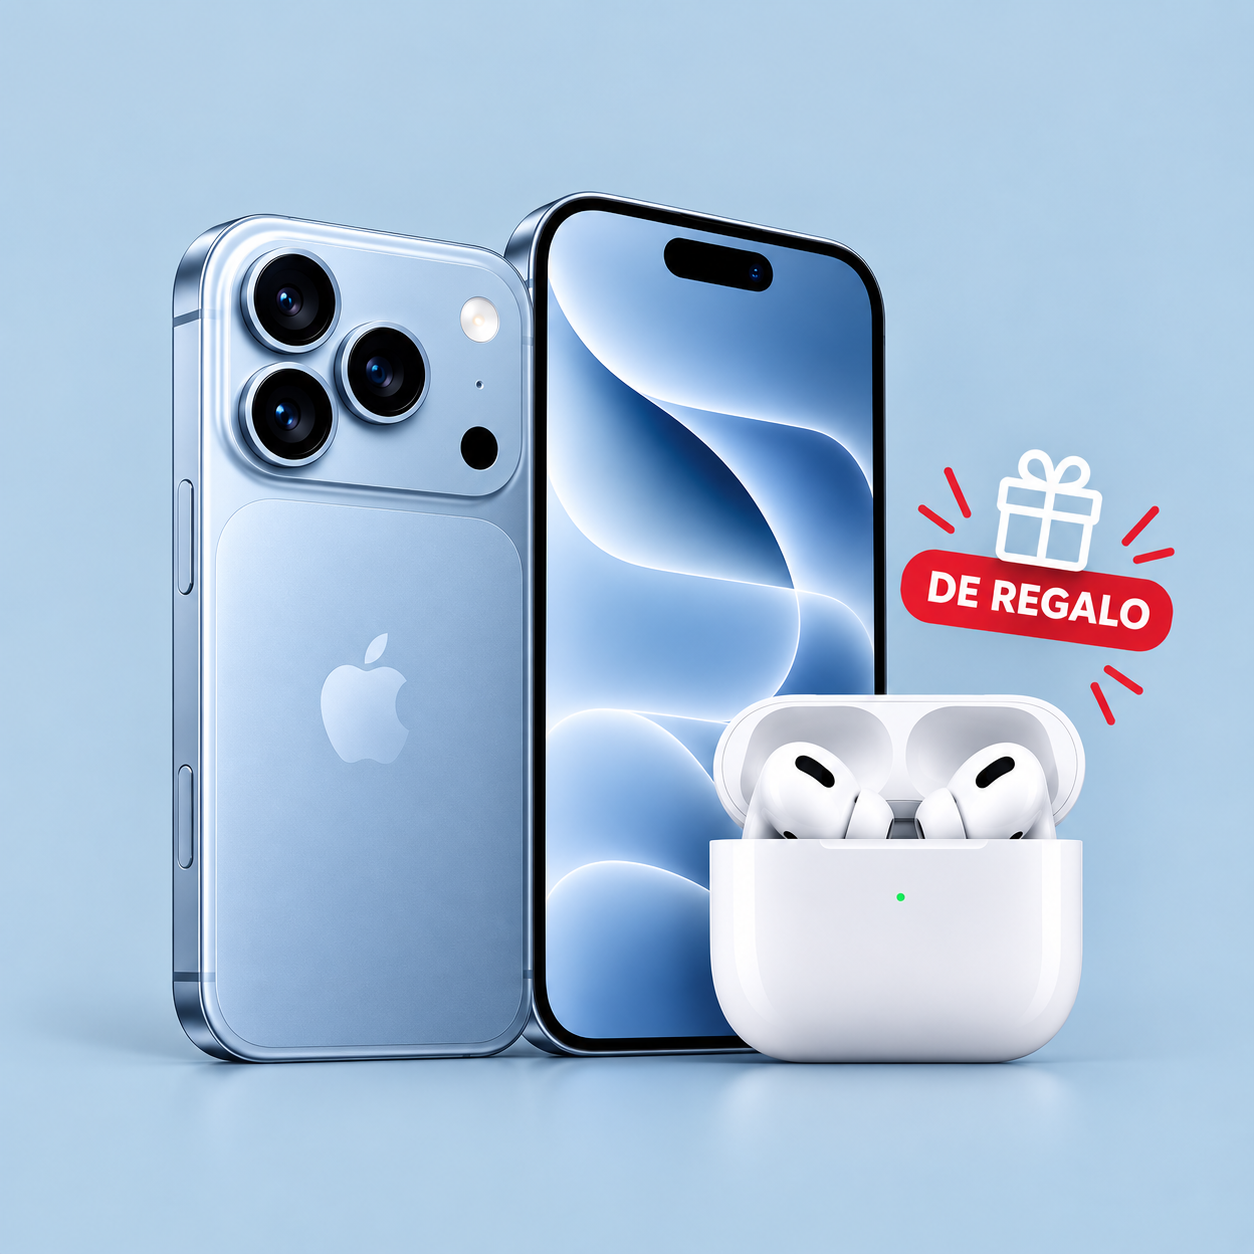
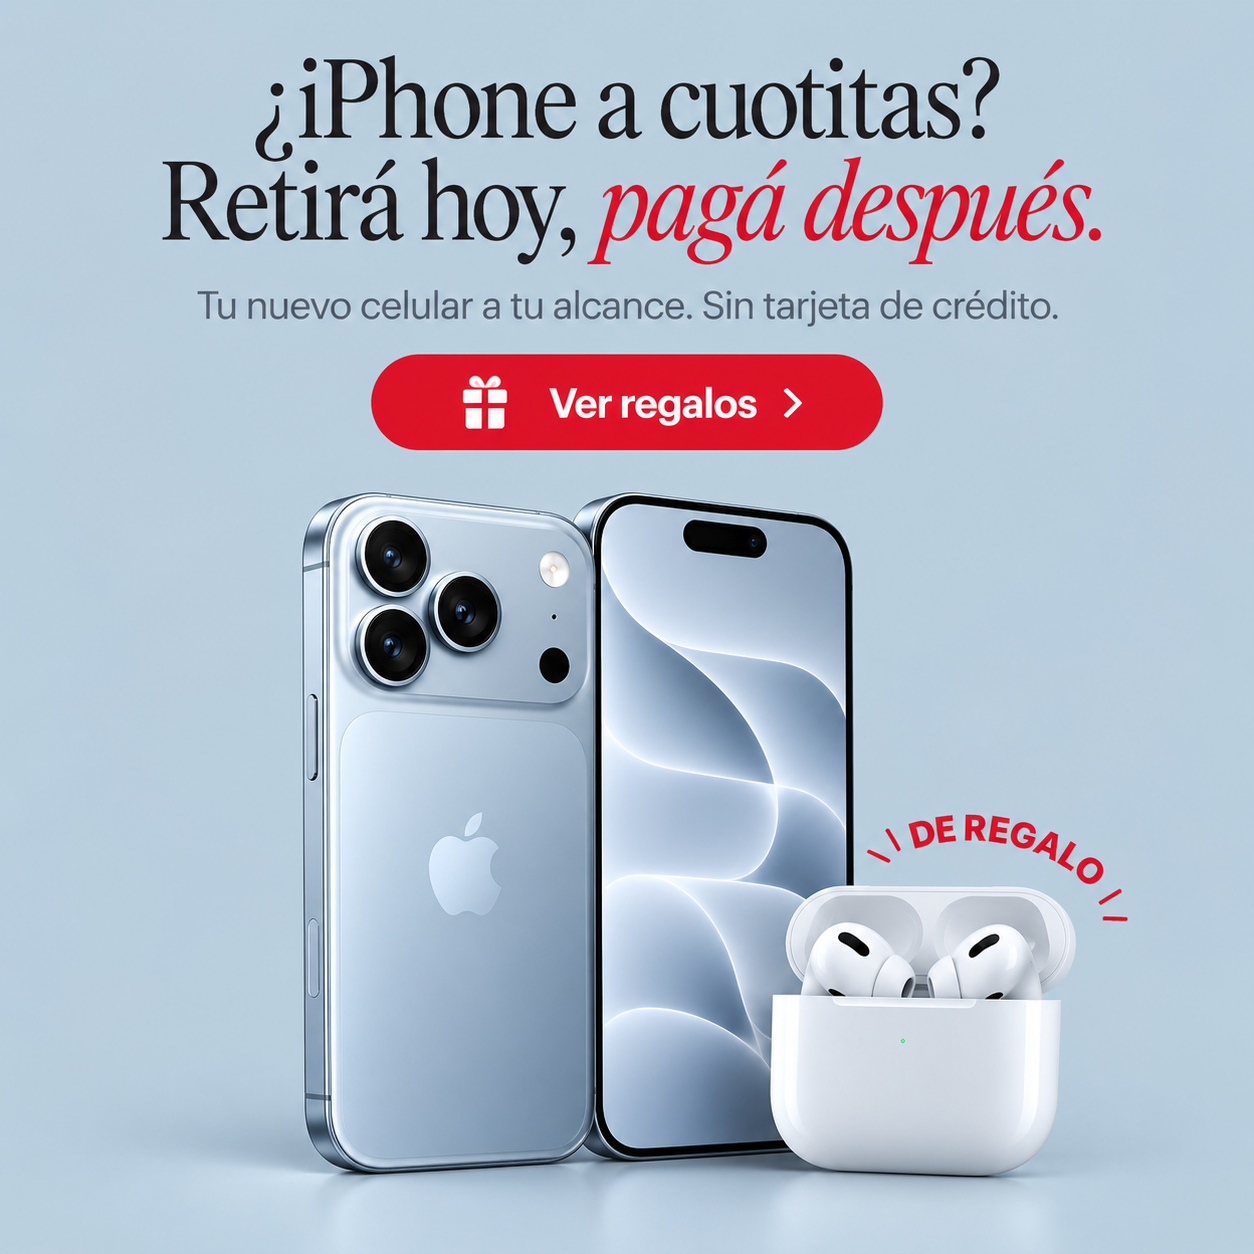
Actualizo foto hero, tipografias unificadas, iconos y carrusel

diff --git a/index.html b/index.html
@@ -187,69 +187,33 @@
     font-style:italic;
   }
 
-  /* ===== 4. HERO SLIDE (cuadrado 1:1) ===== */
-  .slide{
+  /* ===== 4. HERO CARRUSEL (4 fotos cuadradas 1080x1080, swipe automatico) ===== */
+  .hero-carrusel{
+    width:100%;
+    overflow:hidden;
+    position:relative;
+    background:var(--blanco);
+  }
+  .hero-track{
+    display:flex;
+    transition:transform .5s ease;
+  }
+  .hero-slide{
+    flex:0 0 100%;
+    display:block;
     width:100%;
     aspect-ratio:1/1;
-    background:#BFCFDB;
-    display:flex;
-    flex-direction:column;
-    align-items:center;
-    justify-content:flex-start;
-    text-align:center;
-    padding:5% 7% 0;
-    overflow:hidden;
   }
-
-  .slide-titular{
-    font-family:'Instrument Serif', serif;
-    font-weight:400;
-    font-size:1.85rem;
-    line-height:2rem;
-    color:var(--negro);
-    margin-bottom:8px;
-  }
-  .slide-titular em{ font-style:italic; color:var(--rojo); }
-
-  .slide-sub{
-    font-family:'Outfit', sans-serif;
-    font-weight:500;
-    font-size:0.9rem;
-    line-height:1.2rem;
-    color:var(--gris-texto);
-    margin-bottom:14px;
-  }
-
-  .slide-btn{
-    display:inline-block;
-    background:var(--rojo);
-    color:var(--blanco);
-    font-weight:600;
-    font-size:13px;
-    padding:10px 26px;
-    border-radius:999px;
-    margin-bottom:12px;
-  }
-
-  .foto-wrap{
-    flex:1;
-    width:100%;
-    min-height:0;
-    display:flex;
-    align-items:flex-end;
-    justify-content:center;
-    overflow:hidden;
-  }
-  .foto-wrap img{
+  .hero-slide img{
     width:100%;
     height:100%;
-    object-fit:contain;
-    object-position:78% bottom;
+    object-fit:cover;
+    display:block;
   }
 
   .dots{ display:flex; justify-content:center; gap:6px; padding-top:8px; }
   .dots-fuera{ background:var(--blanco); padding:14px 0; }
-  .dot{ width:6px; height:6px; border-radius:50%; background:#00000022; }
+  .dot{ width:6px; height:6px; border-radius:50%; background:#00000022; transition:all .25s ease; }
   .dot.activo{ background:var(--negro); width:16px; border-radius:4px; }
 
   .siguiente-seccion-peek{
@@ -272,8 +236,8 @@
     font-family:'Newsreader', serif;
     font-optical-sizing:auto;
     font-weight:600;
-    font-size:2.75rem;
-    line-height:2.85rem;
+    font-size:2.25rem;
+    line-height:2.4rem;
     letter-spacing:-0.02em;
     color:var(--negro);
     margin:0 auto 10px;
@@ -281,8 +245,8 @@
   }
   @media (min-width:768px){
     .facilidad-titular{
-      font-size:4rem;
-      line-height:4.1rem;
+      font-size:3.5rem;
+      line-height:3.6rem;
       max-width:24ch;
     }
   }
@@ -290,16 +254,16 @@
   .facilidad-subtitulo{
     font-family:'Outfit', sans-serif;
     font-weight:600;
-    font-size:1.5rem;
-    line-height:1.75rem;
+    font-size:1.125rem;
+    line-height:1.4rem;
     color:var(--gris-texto);
     max-width:34ch;
     margin:0 auto 24px;
   }
   @media (min-width:768px){
     .facilidad-subtitulo{
-      font-size:2rem;
-      line-height:2.25rem;
+      font-size:1.4rem;
+      line-height:1.6rem;
       max-width:40ch;
     }
   }
@@ -396,8 +360,8 @@
     font-family:'Newsreader', serif;
     font-optical-sizing:auto;
     font-weight:600;
-    font-size:1.75rem;
-    line-height:1.9rem;
+    font-size:2.25rem;
+    line-height:2.4rem;
     letter-spacing:-0.02em;
     color:var(--negro);
     margin:0 auto 6px;
@@ -405,8 +369,8 @@
   .regalos-bajada{
     font-family:'Outfit', sans-serif;
     font-weight:600;
-    font-size:1.05rem;
-    line-height:1.3rem;
+    font-size:1.125rem;
+    line-height:1.4rem;
     color:var(--gris-texto);
     margin:0 auto 16px;
   }
@@ -441,8 +405,8 @@
     font-weight:700;
   }
   @media (min-width:768px){
-    .regalos-titulo{font-size:2.5rem;line-height:2.65rem;}
-    .regalos-bajada{font-size:1.3rem;line-height:1.6rem;}
+    .regalos-titulo{font-size:3.5rem;line-height:3.6rem;}
+    .regalos-bajada{font-size:1.4rem;line-height:1.6rem;}
     .regalos-grid{grid-template-columns:repeat(4,1fr);}
   }
 
@@ -466,14 +430,18 @@
   .cot-wrap{ padding:24px 20px 32px; max-width:480px; margin:0 auto; background:var(--blanco); }
 
   .cot-titulo{
-    font-family:'Instrument Serif', serif;
-    font-size:2.1rem;
-    line-height:2.3rem;
+    font-family:'Newsreader', serif;
+    font-optical-sizing:auto;
+    font-weight:600;
+    letter-spacing:-0.02em;
+    font-size:2.25rem;
+    line-height:2.4rem;
     color:var(--negro);
+    text-align:center;
     margin-bottom:8px;
   }
   @media (min-width:768px){
-    .cot-titulo{ font-size:2.8rem; line-height:3rem; }
+    .cot-titulo{ font-size:3.5rem; line-height:3.6rem; }
   }
 
   .cot-intermedio{
@@ -488,11 +456,14 @@
     font-size:0.9rem;
     color:var(--gris-texto);
     background:var(--blanco);
+    text-align:center;
     margin-bottom:20px;
   }
   .cot-sub-outfit{
     font-family:'Outfit', sans-serif;
     font-weight:600;
+    font-size:1.125rem;
+    line-height:1.4rem;
   }
 
   /* Valor de referencia, siempre visible arriba */
@@ -755,18 +726,24 @@
 <a class="resultado-btn-info" href="#" id="resultadoBtnInfo">Más info</a>
 </div>
 </div>
-<!-- 4. HERO SLIDE -->
-<div class="slide-container">
-<div class="slide">
-<div class="slide-titular">¿iPhone a cuotitas?<br/>Retirá hoy, <em>pagá después</em></div>
-<div class="slide-sub">Tu nuevo celular a tú alcance. Sin tarjeta de crédito.</div>
-<div class="slide-btn">Cuotas desde ₲149.000</div>
-<div class="foto-wrap">
-<img alt="iPhones en varios colores" src="img/hero-iphones.png"/>
+<!-- 4. HERO CARRUSEL (4 fotos, swipe automatico) -->
+<div class="hero-carrusel" id="heroCarrusel">
+<div class="hero-track" id="heroTrack">
+<a class="hero-slide" href="#selectorModelo">
+<img alt="Cuotas desde ₲149.000 - iPhone a cuotitas" src="img/hero-slide-1.png"/>
+</a>
+<a class="hero-slide" href="#selectorModelo">
+<img alt="Modelos disponibles" src="img/hero-slide-2.png"/>
+</a>
+<a class="hero-slide" href="#selectorModelo">
+<img alt="De regalo AirPods" src="img/hero-slide-3.png"/>
+</a>
+<a class="hero-slide" href="#selectorModelo">
+<img alt="Sin tarjeta de credito" src="img/hero-slide-4.png"/>
+</a>
 </div>
 </div>
-</div>
-<div class="dots dots-fuera">
+<div class="dots dots-fuera" id="heroDots">
 <div class="dot activo"></div>
 <div class="dot"></div>
 <div class="dot"></div>
@@ -808,7 +785,7 @@
 
   <!-- ===== 6. SECCIÓN: TU IPHONE A CUOTAS NO VIENE SOLO ===== -->
   <section class="seccion-regalos" id="regalos">
-    <h2 class="regalos-titulo">Te damos más</h2>
+    <h2 class="regalos-titulo"><i data-lucide="gift" style="width:28px;height:28px;vertical-align:-5px;margin-right:6px;"></i> Te damos más</h2>
     <div class="regalos-bajada">¡Un regalo a elección!</div>
     <div class="regalos-grid">
       <div class="regalo-card">
@@ -839,8 +816,8 @@
   <!-- ===== 7. SECCIÓN: TRADE-IN ===== -->
   <section class="seccion-tradein" id="trade-in">
 <div class="cot-wrap">
-<div class="cot-titulo">Trade-in:</div>
-<div class="cot-sub cot-sub-outfit">Cotizá tu equipo fácil.</div>
+<div class="cot-titulo"><i data-lucide="recycle" style="width:28px;height:28px;vertical-align:-5px;margin-right:6px;"></i> Tu equipo vale.</div>
+<div class="cot-sub cot-sub-outfit">Te damos la mejor oferta.</div>
 <div class="valor-card">
 <div>
 <div class="valor-label">Tu equipo</div>
@@ -988,6 +965,20 @@
   document.getElementById('resultadoCerrar').addEventListener('click', () => {
     resultado.classList.remove('visible');
   });
+</script>
+<script>
+  (function(){
+    const track = document.getElementById('heroTrack');
+    const dots = document.querySelectorAll('#heroDots .dot');
+    let idx = 0;
+    const total = dots.length;
+    function ir(i){
+      idx = i;
+      track.style.transform = 'translateX(-' + (idx * 100) + '%)';
+      dots.forEach((d,n) => d.classList.toggle('activo', n === idx));
+    }
+    setInterval(() => { ir((idx + 1) % total); }, 4000);
+  })();
 </script>
 <script>lucide.createIcons();</script>
 </body>
